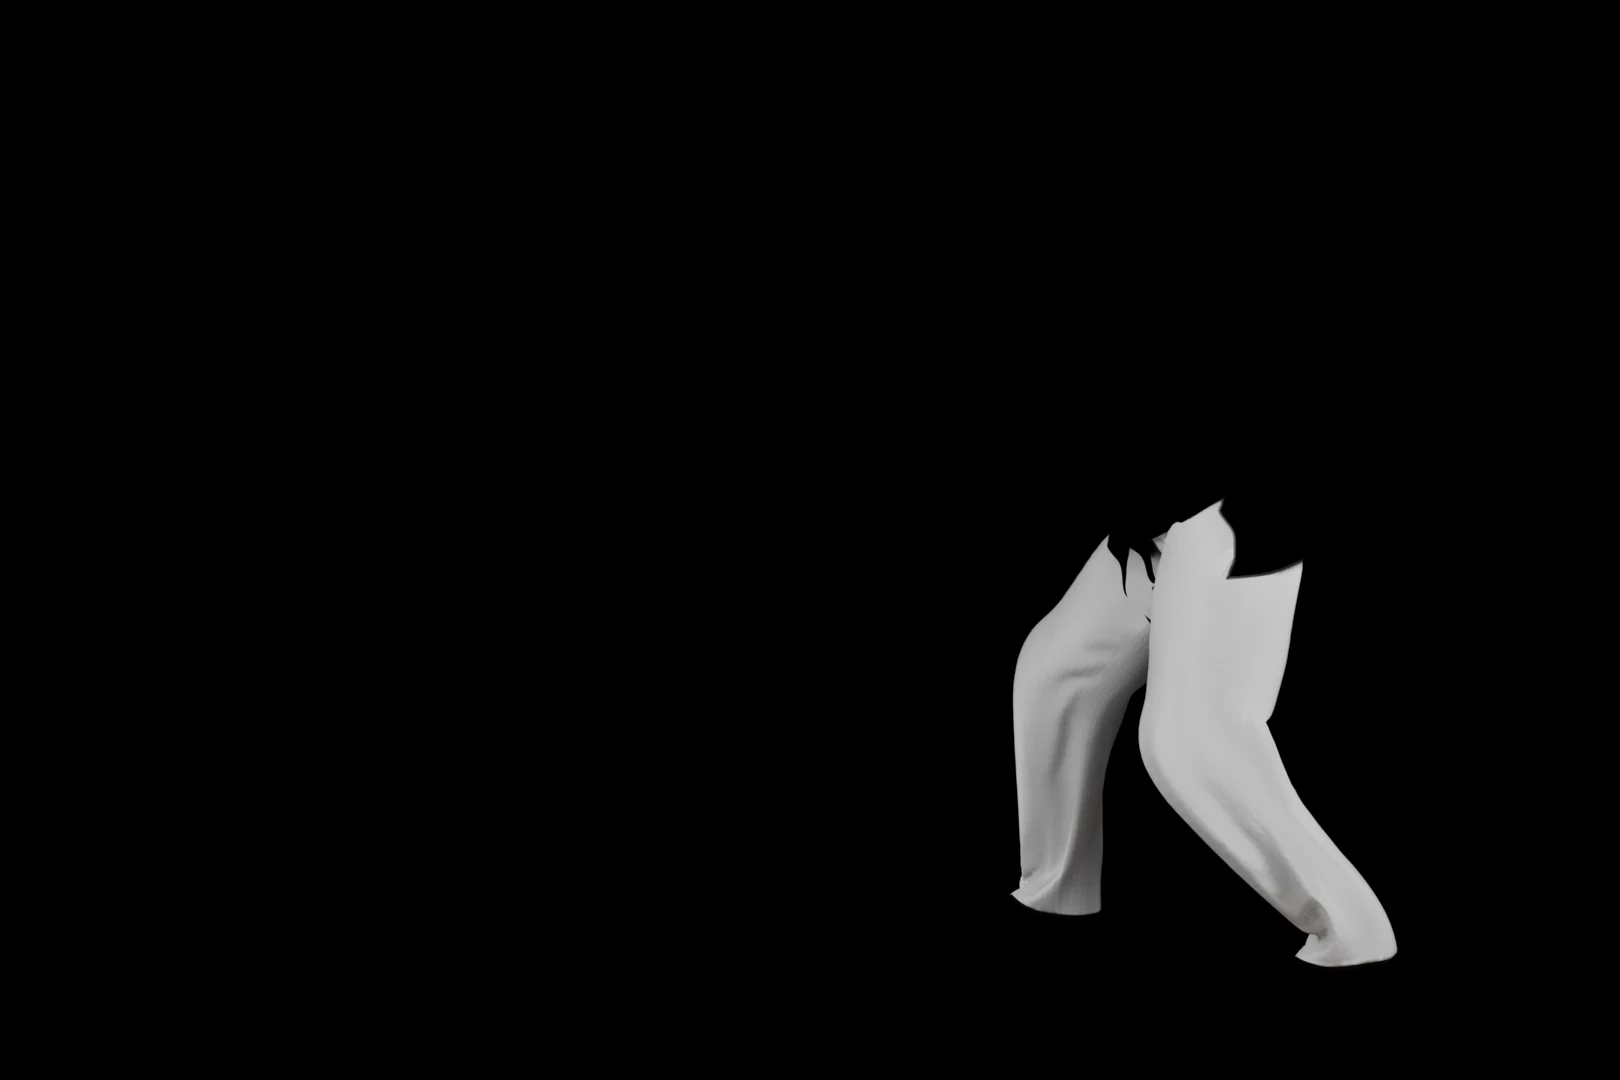
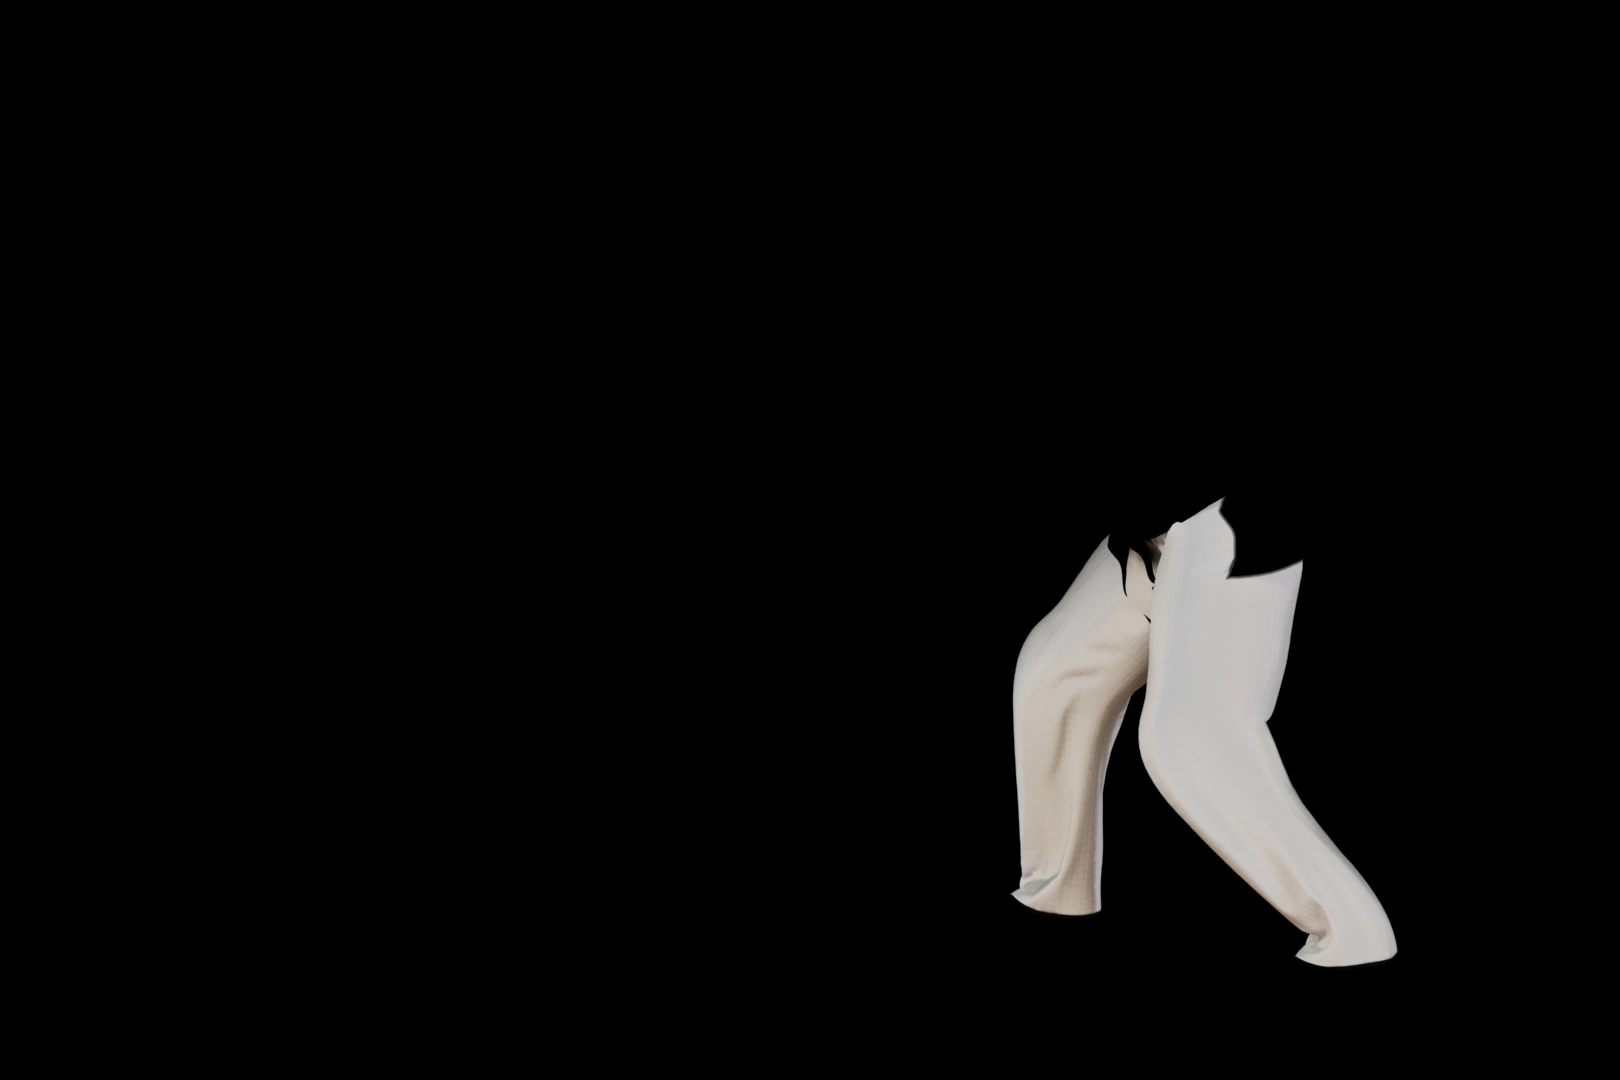
WIP: uncommitted changes, moved to the cloud
Snapshot of the working tree the Claude desktop app took to continue
this session in the cloud. It was never committed on the desktop; fold
it into your next commit (git commit --amend) or unstage it
(git reset --mixed HEAD~1) before committing for real.

diff --git a/tests/unrealPositionStills.test.js b/tests/unrealPositionStills.test.js
@@ -83,9 +83,12 @@ test('a still replaces the classic picture only where it is at least as exact', 
   assert.equal(choose(null), null);
 });
 
-test('the crouched standing still is shown: nothing is held back since the belt-tail repair renders', () => {
-  // Unreal rendered the still's five passes again on November 13, 2026 (15:34) with the lead athlete's
-  // belt tail off the back of his thigh: same camera, frame and pose, only the tail mesh changed.
+test('the crouched standing still is shown: nothing is held back, and its layers come from the dojo-set passes', () => {
+  // The still was held while the lead athlete's belt tail showed on the back of his thigh. Unreal's
+  // repair renders of November 13, 2026 (15:34) took it off: same camera, frame and pose, only the
+  // tail mesh changed. The five passes built now were rendered again on November 15, 2026 in the dojo
+  // set, a straw tatami floor under a pool of light: the same camera, frame and pose, with the repaired
+  // tail, and only the floor and the lights changed.
   // To hold a still back again, list it in HELD_UNREAL_POSITION_STILLS and change this test with it.
   assert.deepEqual(HELD_UNREAL_POSITION_STILLS, []);
   assert.throws(() => { HELD_UNREAL_POSITION_STILLS.push('standing'); }, TypeError);
@@ -97,15 +100,40 @@ test('the crouched standing still is shown: nothing is held back since the belt-
   assert.equal(chooseUnrealPositionStill(null), null);
   // Holding a still back still works.
   assert.equal(chooseUnrealPositionStill(snapshotOf('standing'), ['standing']), null);
-  // The still is frame 0 of the crouched standing_stance clip, built from the repair renders.
+  // The still is frame 0 of the crouched standing_stance clip, built from the five dojo-set passes
+  // (engine run dojo-v1-001-standing_still), as their render record lists them.
   assert.deepEqual([standing.sourceClip, standing.sourceFrame], ['standing_stance/fighter-side.mp4', 0]);
   assert.deepEqual({ ...standing.sources }, {
[10 lines of base64/hex data omitted]
   });
+});
+
+test('both builders keep the standing layers to their own cloth, with the same settings', () => {
+  // The Node tool built the published layers and the Python twin must be given the same rule. `cloth`
+  // keeps the light a white gi throws on its wearer's skin and on the floor out of the gi and belt
+  // layers, so skin and floor are the same in every gi color. `quality` fades the faint dotted line
+  // that the separately encoded jacket and pants leave where they meet in a gi of one color.
+  const node = repoFile('tools/build_unreal_position_layers.mjs').toString('utf8');
+  const python = repoFile('tools/build_unreal_position_layers.py').toString('utf8');
+  assert.match(node, /^    families: \['standing'\],\r?\n    cloth: \{ times: 4, rise: 0\.15 \},\r?\n    quality: 96,\r?\n    jacket: \{\r?$/m);
+  assert.match(python, /^        "families": \["standing"\],\r?\n        "cloth": \{"times": 4, "rise": 0\.15\},\r?\n        "quality": 96,\r?\n        "jacket": \{\r?$/m);
+  // The rule itself: cloth turned white is many times as bright in linear light, or brighter by a large share of it.
+  assert.match(node, /^      if \(!\(lit > times \* dark \|\| lit - dark > rise\)\) cloth = 0;\r?$/m);
+  assert.match(python, /^    return \(\(light > cloth\["times"\] \* dark\) \| \(light - dark > cloth\["rise"\]\)\)\.all\(axis=2\)\r?$/m);
+  // A region is what the pass brightens by more than 14 in every channel, and cloth where the position asks for it.
+  assert.match(node, /mask\[index\] = Math\.min\(delta\[index \* 3\], delta\[index \* 3 \+ 1\], delta\[index \* 3 \+ 2\]\) > 14 && \(!cloth \|\| cloth\[index\]\) \? 255 : 0;/);
+  assert.match(python, /^    mask = delta\.min\(axis=2\) > 14\r?\n    if cloth is not None:\r?\n        mask &= cloth\r?$/m);
+  // Without the settings both tools do what they did: no cloth rule, and quality 88 for the tinted layers.
+  assert.match(node, /^    const cloth = settings\.cloth \?\? null;\r?$/m);
+  assert.match(python, /^        cloth = settings\.get\("cloth"\)\r?$/m);
+  assert.match(node, /^    const quality = settings\.quality \?\? 88;\r?$/m);
+  assert.match(python, /^        quality = settings\.get\("quality", 88\)\r?$/m);
+  assert.match(node, /\.webp\(\{ quality: name === 'base' \? 90 : quality, effort: 6 \}\)/);
+  assert.match(python, /image\.save\(path, "WEBP", quality=90 if name == "base" else quality, method=6\)/);
 });
 
 test('each layer takes its own athlete\'s color, and only a safe color', () => {

diff --git a/src/unreal/positionStills.data.js b/src/unreal/positionStills.data.js
@@ -23,40 +23,40 @@ const stills = [
     },
     "files": {
       "base": {
-        "bytes": 52416,
[1 lines of base64/hex data omitted]
+        "bytes": 70044,
[1 lines of base64/hex data omitted]
       },
       "leadBelt": {
-        "bytes": 4078,
[1 lines of base64/hex data omitted]
+        "bytes": 4796,
[1 lines of base64/hex data omitted]
       },
       "leadJacket": {
-        "bytes": 10110,
[1 lines of base64/hex data omitted]
+        "bytes": 18164,
[1 lines of base64/hex data omitted]
       },
       "leadPants": {
-        "bytes": 8236,
[1 lines of base64/hex data omitted]
+        "bytes": 14792,
[1 lines of base64/hex data omitted]
       },
       "otherBelt": {
-        "bytes": 4980,
[1 lines of base64/hex data omitted]
+        "bytes": 6506,
[1 lines of base64/hex data omitted]
       },
       "otherJacket": {
-        "bytes": 9418,
[1 lines of base64/hex data omitted]
+        "bytes": 17278,
[1 lines of base64/hex data omitted]
       },
       "otherPants": {
-        "bytes": 8882,
[1 lines of base64/hex data omitted]
+        "bytes": 15738,
[1 lines of base64/hex data omitted]
       }
     },
     "sources": {
[10 lines of base64/hex data omitted]
     }
   }
 ];

diff --git a/src/unreal/positionStills.js b/src/unreal/positionStills.js
@@ -25,9 +25,11 @@ export function findUnrealPositionStill(key) {
 // downloaded. Nothing is held now. The crouched standing still was held while
 // the lead athlete's belt tail poked through the back of his thigh, and is
 // shown since Unreal's repair renders of November 13, 2026 (15:34) were built
-// into its layers. To hold a still again, put its position key in this list,
-// for example Object.freeze(['standing']), and update the hold-back test in
-// tests/unrealPositionStills.test.js with it.
+// into its layers. The layers published now come from passes rendered again on
+// November 15, 2026 in the dojo set (a straw tatami floor under a pool of
+// light), with the repaired tail. To hold a still again, put its position key
+// in this list, for example Object.freeze(['standing']), and update the
+// hold-back test in tests/unrealPositionStills.test.js with it.
 export const HELD_UNREAL_POSITION_STILLS = Object.freeze([]);
 
 // The still for one settled position, or null when the classic picture is the

diff --git a/tools/build_unreal_position_layers.py b/tools/build_unreal_position_layers.py
@@ -1,4 +1,4 @@
-"""Build the tintable two-athlete position stills from the Pack D color passes.
+"""Build the tintable two-athlete position stills from five color passes of one frame.
 
 Unreal rendered one frozen frame five times: everything black, then each
 athlete's gi in white, then each athlete's belt in white. The page adds the
@@ -32,6 +32,17 @@ a pixel that is part gi and part belt shows when both are white: no bright rim
 along the belt, and no dark line either, which a cap at the brighter of the two
 renders left on a light belt over a light gi.
 
+A white gi also throws light on what lies beside it: the wearer's neck and
+wrists, the floor under the cuffs. Where that light is strong the white pass
+is brighter than the base render in every channel, just as it is on the gi,
+and the gi layer would take that skin or floor with it and paint it in the gi
+color. A position can keep each gi and belt layer to its own cloth (`cloth`
+below): a pixel then counts as gi or belt only where the pass turned cloth
+white, which in linear light makes it either several times as bright as the
+base render or brighter by a large share of full light. Skin and floor that
+only catch a white gi's light pass neither test, so they stay as the base
+render shows them, the same in every gi color.
+
 tools/build_unreal_position_layers.mjs is this script's Node twin: the same
 arithmetic, the same POSITIONS and the same output files. It is the tool of
 record on a machine without Python, and it built the layers published now.
@@ -64,6 +75,18 @@ PASSES = ("base", "lead-gi-white", "other-gi-white", "lead-belt-white", "other-b
 #   crop     left, top, width, height in render pixels, 3:2 like the stage
 #   size     published layer size, same proportions as the crop
 #   families Arena position families this exact pose pictures
+#   cloth    optional, {"times": t, "rise": r}: keep each gi and belt layer to
+#            its own cloth. Without it a gi or belt is every pixel its white
+#            pass brightens by more than 14 in every channel, which takes in
+#            skin and floor that the white cloth lights up strongly. With it
+#            the pixel must also be, in every channel and in linear light
+#            (0..1), more than t times as bright as in the base render or
+#            brighter by more than r.
+#   quality  optional: the WebP quality of the six tinted layers, 88 if not
+#            given. The base layer is always 90. Jacket and pants are separate
+#            lossy files that meet in a four-pixel ramp, and in a gi of one
+#            color their two errors show as a faint dotted line wherever the
+#            ramp crosses cloth that is evenly lit. A higher quality fades it.
 #   hem      per athlete: the render columns and rows that bracket a level hem
 #   jacket   per athlete: a closed outline around the jacket, as (x, y) pixel
 #            centers. Where it runs through background or through the belt it
@@ -77,11 +100,25 @@ PASSES = ("base", "lead-gi-white", "other-gi-white", "lead-belt-white", "other-b
 # showing between the corner and the belt, so both athletes use an outline.
 # (The upright pose this replaced used hem windows: lead columns 830-1100 rows
 # 735-800, other columns 1475-1750 rows 715-790, with crop 370, 110, 1845, 1230.)
+# The passes built now are the dojo set (a straw tatami floor under a pool of
+# light), with the cloth rule: without it each jacket layer held patches of its
+# wearer's neck and wrist, lit by the white collar and sleeve. 4 and 0.15 lie
+# between the two groups in these passes. Skin lit by the white gi stays under
+# about 3 times and 0.08, the floor far lower. Cloth in shade is 10 times as
+# bright or more, and lit cloth gains 0.3 or more, also under the black gi's
+# sheen. The few pixels in between are edge pixels that are part cloth.
+# Quality 96: in the dojo light the front edge of the other athlete's skirt is
+# no longer a shaded crease, so the outline crosses evenly lit cloth there and
+# at 88 a white gi showed the dotted line. At 96 the error along the outline
+# falls from about 4.2 to about 3.0 of 255 (2.1 on the rest of the gi), for
+# 28 kB more.
 POSITIONS = {
     "standing": {
         "crop": (510, 255, 1620, 1080),
         "size": (1620, 1080),
         "families": ["standing"],
+        "cloth": {"times": 4, "rise": 0.15},
+        "quality": 96,
         "jacket": {
             "lead": [
                 # background above and in front of the athlete, then the gap between the sleeve and the thigh
@@ -141,9 +178,29 @@ def soft(mask, median, blur, grow=0):
     return np.asarray(image.filter(ImageFilter.GaussianBlur(blur))).astype(np.float32) / 255
 
 
-def region(delta, median, blur):
-    """Where a pass clearly brightens every channel: that gi or that belt."""
-    return soft(((delta.min(axis=2) > 14) * 255).astype(np.uint8), median=median, blur=blur, grow=5)
+def cloth_mask(white, base, cloth):
+    """Where a white pass turned cloth white, not where it only lit what lies beside the cloth.
+
+    In linear light a black gi turned white is many times as bright, or, where
+    the black cloth already shone, brighter by a large share of full light.
+    Skin and floor that catch the white cloth's light gain far less of either.
+    The renders hold whole numbers, so the comparison is made in double
+    precision on the 256 values the transfer function can take.
+    """
+    light, dark = to_linear(white.astype(np.float64)), to_linear(base.astype(np.float64))
+    return ((light > cloth["times"] * dark) | (light - dark > cloth["rise"])).all(axis=2)
+
+
+def region(delta, median, blur, cloth=None):
+    """Where a pass clearly brightens every channel: that gi or that belt.
+
+    `cloth` is the cloth_mask of the same pass, for a position that keeps its
+    layers to their own cloth.
+    """
+    mask = delta.min(axis=2) > 14
+    if cloth is not None:
+        mask &= cloth
+    return soft((mask * 255).astype(np.uint8), median=median, blur=blur, grow=5)
 
 
 def hem_line(white, gi, belt, window, width):
@@ -230,15 +287,21 @@ def main():
         left, top, crop_width, crop_height = settings["crop"]
         if abs(crop_width / crop_height - settings["size"][0] / settings["size"][1]) > 0.002:
             fail(f"{position}: crop and size have different proportions")
+        cloth = settings.get("cloth")
+        if cloth and not (cloth["times"] > 1 and 0 < cloth["rise"] < 1):
+            fail(f"{position}: cloth needs times above 1 and rise between 0 and 1")
+        quality = settings.get("quality", 88)
+        if not (isinstance(quality, int) and 1 <= quality <= 100):
+            fail(f"{position}: quality must be a whole number from 1 to 100")
 
         layers = {"base": base}
         details = {}
         for athlete in ("lead", "other"):
             white = renders[f"{athlete}-gi-white"]
             belt_delta = np.clip(renders[f"{athlete}-belt-white"] - base, 0, 255)
-            belt_region = region(belt_delta, median=5, blur=1.4)
+            belt_region = region(belt_delta, median=5, blur=1.4, cloth=cloth_mask(renders[f"{athlete}-belt-white"], base, cloth) if cloth else None)
             gi_delta = np.clip(white - base, 0, 255)
-            gi_region = region(gi_delta, median=7, blur=1.8)
+            gi_region = region(gi_delta, median=7, blur=1.8, cloth=cloth_mask(white, base, cloth) if cloth else None)
             gi_delta *= gi_region[..., None]
             belt = belt_delta * belt_region[..., None]
             # Where the belt's edge lies over the gi both layers add light, and a white belt
@@ -295,7 +358,7 @@ def main():
             image = Image.fromarray(np.clip(np.rint(pixels), 0, 255).astype(np.uint8))
             image = image.crop((left, top, left + crop_width, top + crop_height)).resize(settings["size"], Image.LANCZOS)
             path = folder / file_name
-            image.save(path, "WEBP", quality=90 if name == "base" else 88, method=6)
+            image.save(path, "WEBP", quality=90 if name == "base" else quality, method=6)
             data = path.read_bytes()
             files[name] = {"bytes": len(data), "sha256": hashlib.sha256(data).hexdigest()}
             urls[name] = f"/assets/unreal-positions/{position}/{file_name}"
@@ -313,7 +376,7 @@ def main():
             "files": files,
             "sources": sources,
         })
-        report[position] = {"crop": list(settings["crop"]), "size": list(settings["size"]), **details,
+        report[position] = {"crop": list(settings["crop"]), "size": list(settings["size"]), **({"cloth": cloth} if cloth else {}), **({} if quality == 88 else {"quality": quality}), **details,
                             "bytes": sum(item["bytes"] for item in files.values())}
 
     body = json.dumps(stills, indent=2)
